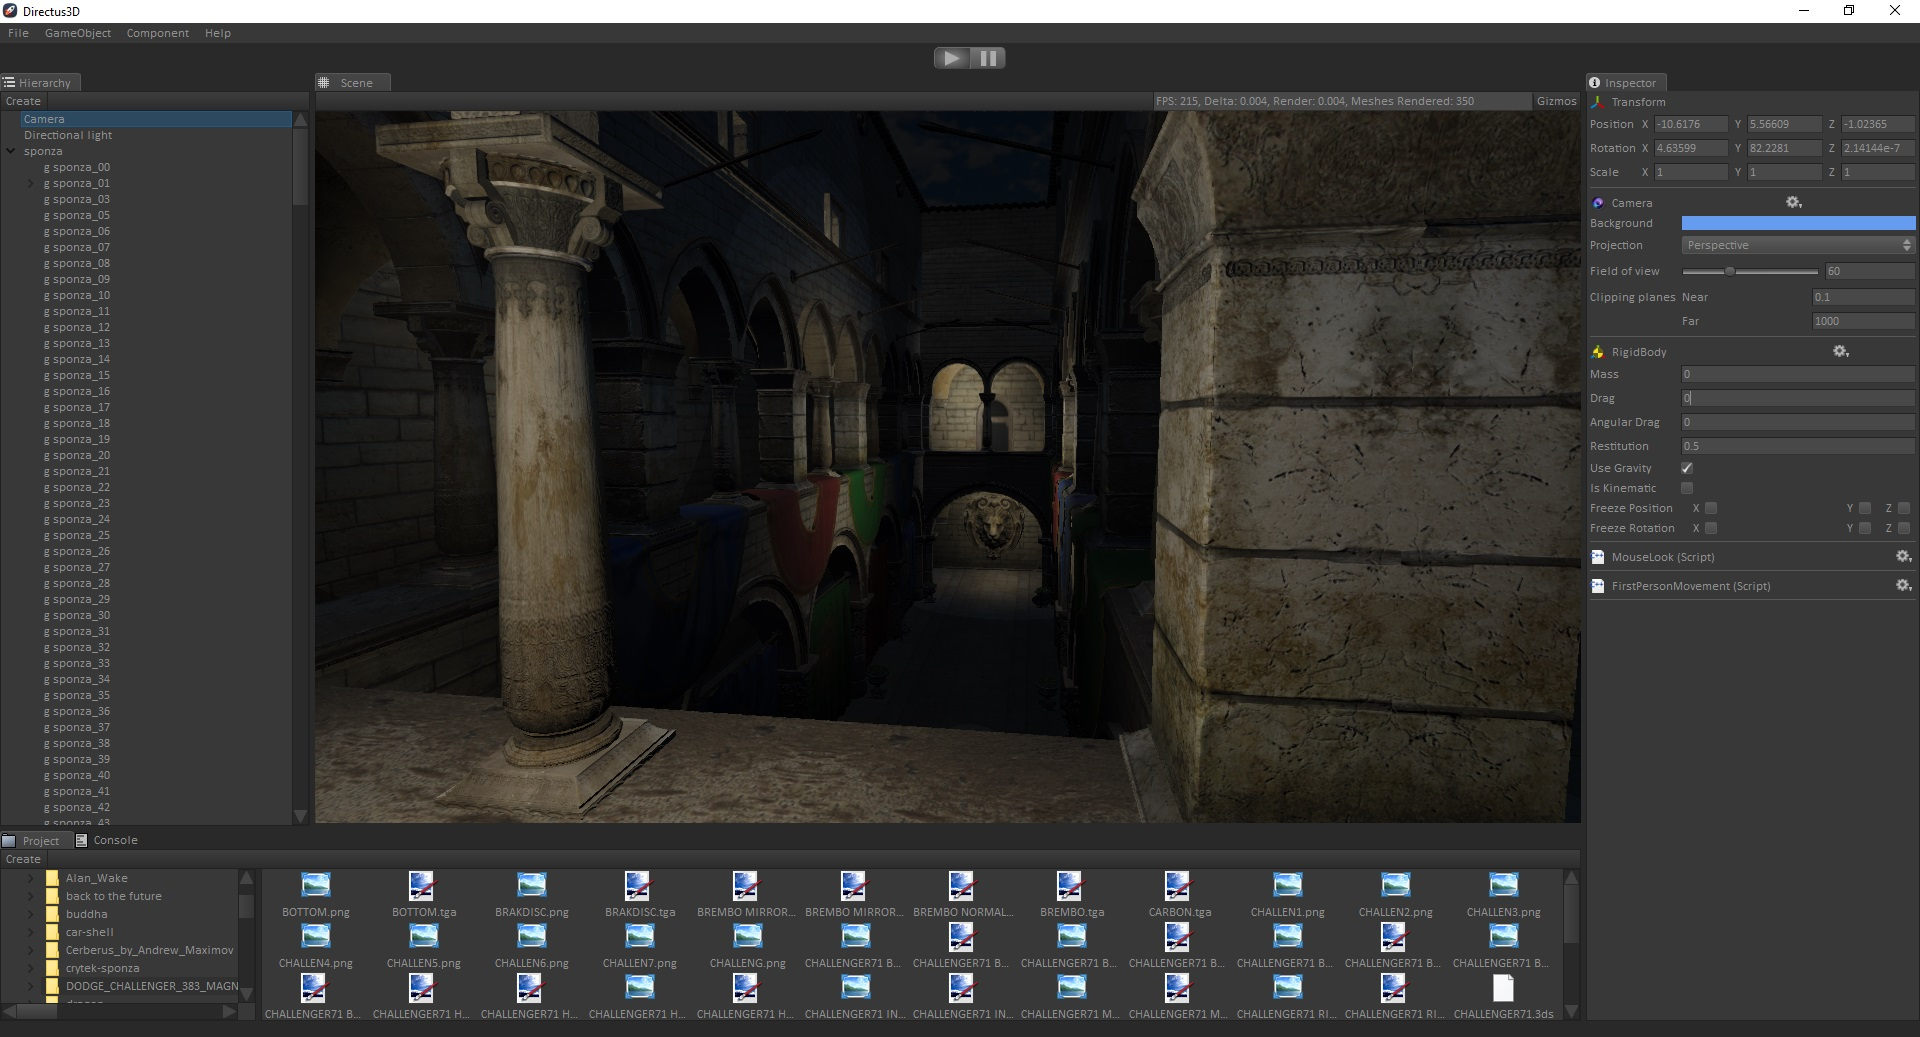
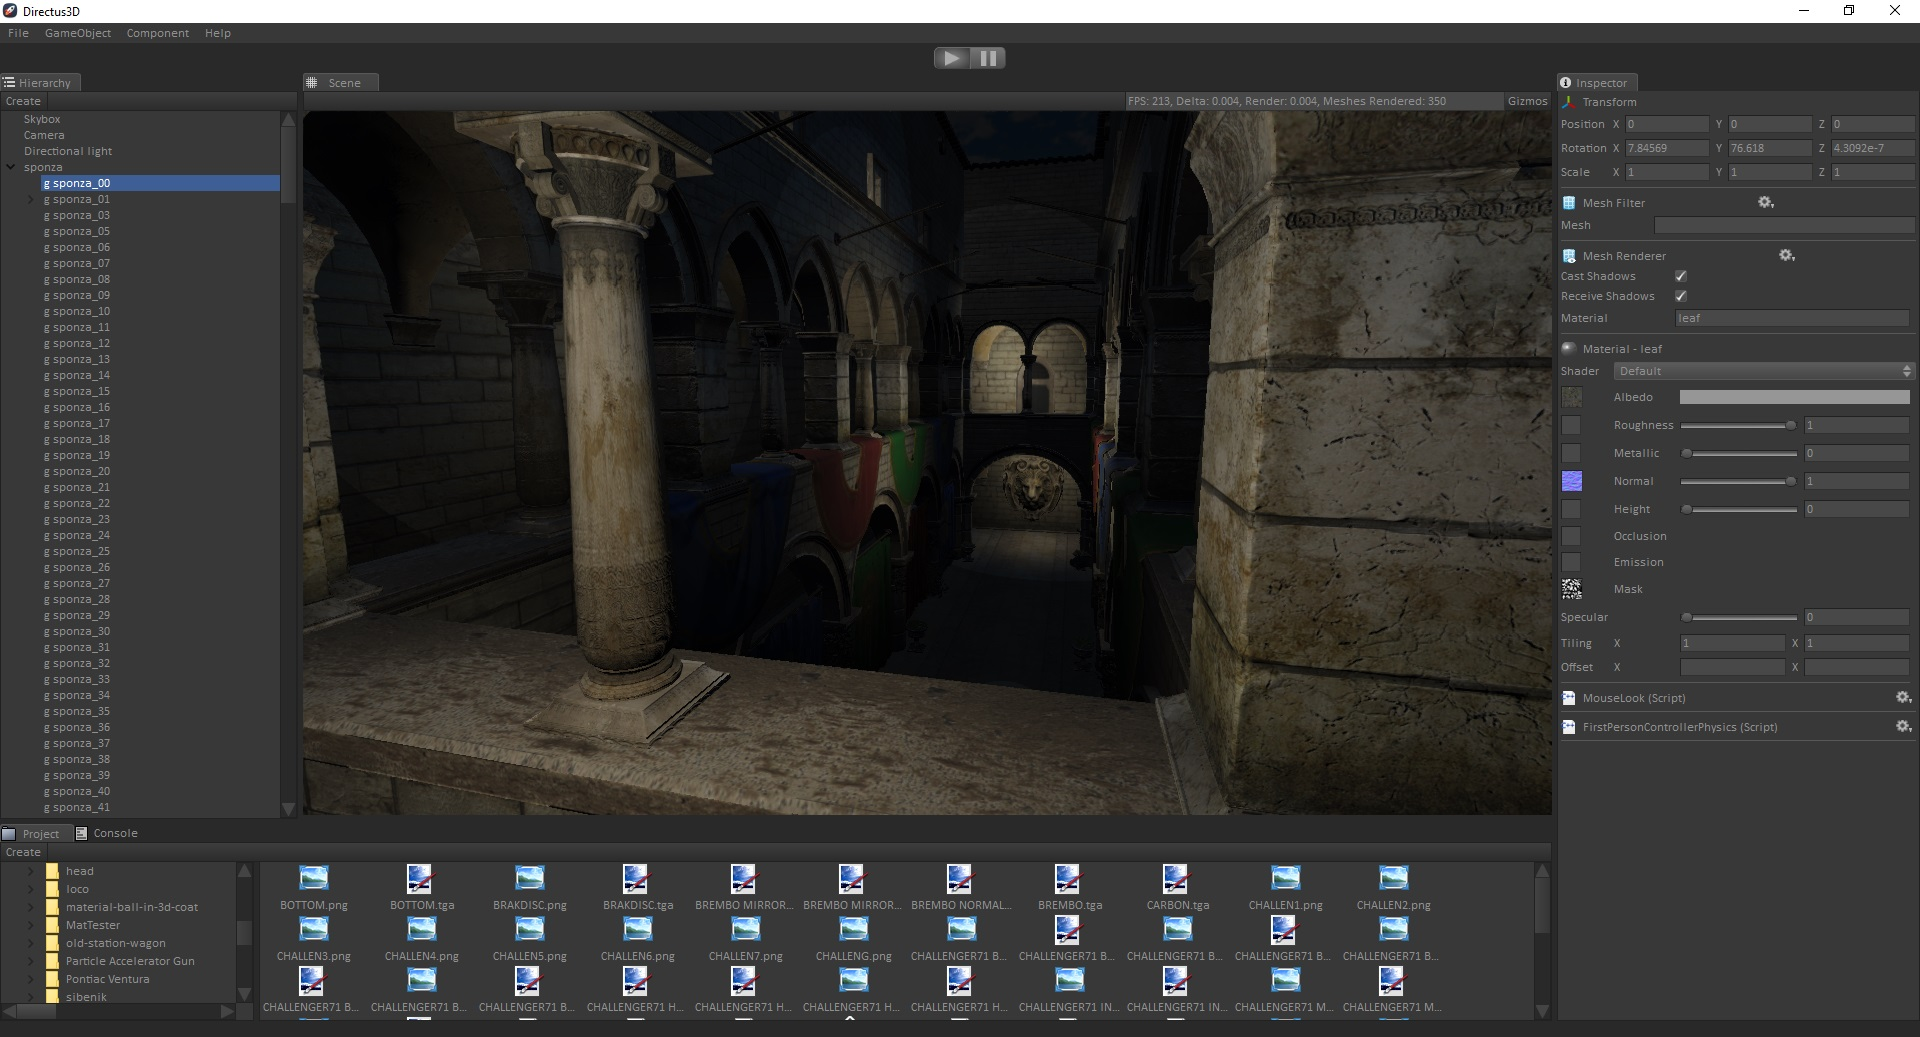
Fixed a bug where the hierarchy would no auto-populate when a scene was loaded.

diff --git a/Editor/DirectusFileDialog.cpp b/Editor/DirectusFileDialog.cpp
@@ -48,7 +48,7 @@ void DirectusFileDialog::Initialize(QWidget* mainWindow, DirectusCore* directusC
     m_lastSceneFilePath = NO_PATH;
 }
 
-void DirectusFileDialog::ForgetLastUsedFilePath()
+void DirectusFileDialog::ResetFilePath()
 {
     m_lastSceneFilePath = NO_PATH;
 }
@@ -99,6 +99,11 @@ void DirectusFileDialog::SaveScene()
     m_assetOperation = "Save Scene";
 }
 
+void DirectusFileDialog::AssetLoadedSurrogate()
+{
+    emit AssetLoaded();
+}
+
 void DirectusFileDialog::FileDialogAccepted(QString filePath)
 {
     // Create a thread and move the asset loader to it
@@ -110,14 +115,8 @@ void DirectusFileDialog::FileDialogAccepted(QString filePath)
     // Stop the engine (in case it's running)
     m_directusCore->Stop();
     connect(thread, SIGNAL(started()), m_directusCore, SLOT(Lock()));
-    if (m_assetOperation  == "Load Model")
-    {
-        connect(thread,         SIGNAL(started()),  m_assetLoader,  SLOT(LoadModel()));
-        connect(m_assetLoader,  SIGNAL(Finished()), this,           SLOT(Populate()));
-        connect(m_assetLoader,  SIGNAL(Finished()), thread,         SLOT(quit()));
-        connect(thread,         SIGNAL(finished()), m_directusCore, SLOT(Update()));
-    }
-    else if (m_assetOperation == "Save Scene As")
+
+    if (m_assetOperation == "Save Scene As")
     {
         m_lastSceneFilePath = filePath;
 
@@ -137,8 +136,15 @@ void DirectusFileDialog::FileDialogAccepted(QString filePath)
 
         connect(thread,         SIGNAL(started()),  m_assetLoader,      SLOT(LoadScene()));
         connect(thread,         SIGNAL(finished()), m_directusCore,     SLOT(Update()));
-        connect(m_assetLoader,  SIGNAL(Finished()), this,               SLOT(Populate()));
+        connect(m_assetLoader,  SIGNAL(Finished()), this,               SLOT(AssetLoadedSurrogate()));
         connect(m_assetLoader,  SIGNAL(Finished()), thread,             SLOT(quit()));
+    }
+    else if (m_assetOperation  == "Load Model")
+    {
+        connect(thread,         SIGNAL(started()),  m_assetLoader,  SLOT(LoadModel()));
+        connect(m_assetLoader,  SIGNAL(Finished()), this,           SLOT(AssetLoadedSurrogate()));
+        connect(m_assetLoader,  SIGNAL(Finished()), thread,         SLOT(quit()));
+        connect(thread,         SIGNAL(finished()), m_directusCore, SLOT(Update()));
     }
     connect(thread,         SIGNAL(started()), m_directusCore,          SLOT(Unlock()));
     connect(thread,         SIGNAL(finished()), thread,                 SLOT(deleteLater()));

diff --git a/Editor/DirectusFileDialog.h b/Editor/DirectusFileDialog.h
@@ -34,7 +34,7 @@ class DirectusFileDialog : public QFileDialog
 public:
     explicit DirectusFileDialog(QWidget *parent = 0);
     void Initialize(QWidget* mainWindow, DirectusCore* directusCore);
-    void ForgetLastUsedFilePath();
+    void ResetFilePath();
     bool FilePathExists();
     void LoadModel();
     void LoadScene();
@@ -51,7 +51,12 @@ private:
     DirectusCore* m_directusCore;
 
 signals:
+    void AssetLoaded();
+
+private slots:
+    void AssetLoadedSurrogate();
 
 public slots:
     void FileDialogAccepted(QString);
+
 };

diff --git a/Editor/DirectusHierarchy.cpp b/Editor/DirectusHierarchy.cpp
@@ -62,6 +62,7 @@ void DirectusHierarchy::Initialize(DirectusInspector* inspector, QWidget* mainWi
 
     m_fileDialog = new DirectusFileDialog(mainWindow);
     m_fileDialog->Initialize(m_mainWindow, m_directusCore);
+    connect(m_fileDialog, SIGNAL(AssetLoaded()), this, SLOT(Populate()));
 
     Populate();
 }
@@ -337,7 +338,7 @@ void DirectusHierarchy::Populate()
 
 void DirectusHierarchy::NewScene()
 {
-    m_fileDialog->ForgetLastUsedFilePath();
+    m_fileDialog->ResetFilePath();
     m_socket->ClearScene();
 
     Populate();

diff --git a/README.md b/README.md
@@ -19,7 +19,7 @@ approach when it comes to adding features and a state of the art editor. The edi
 - Windows support.
 
 # Planned Features
-- Ability to save everything in a custom engine format.
+- Ability to save anything in a custom engine format (prefabs).
 - Audio source and listener components.
 - Cascaded shadow mapping.
 - Draw call batching (static & dynamic).
